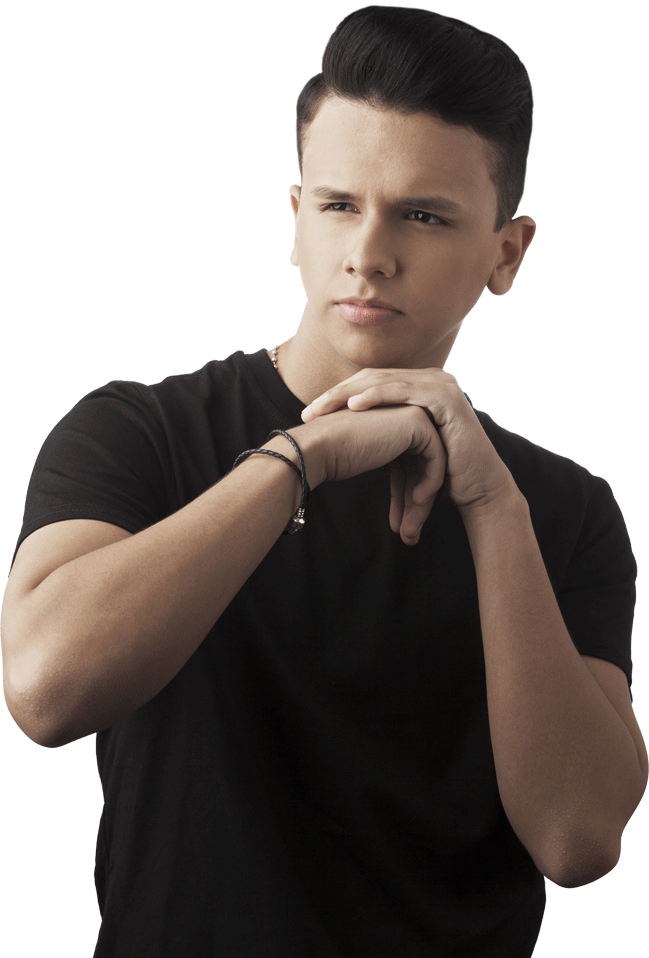
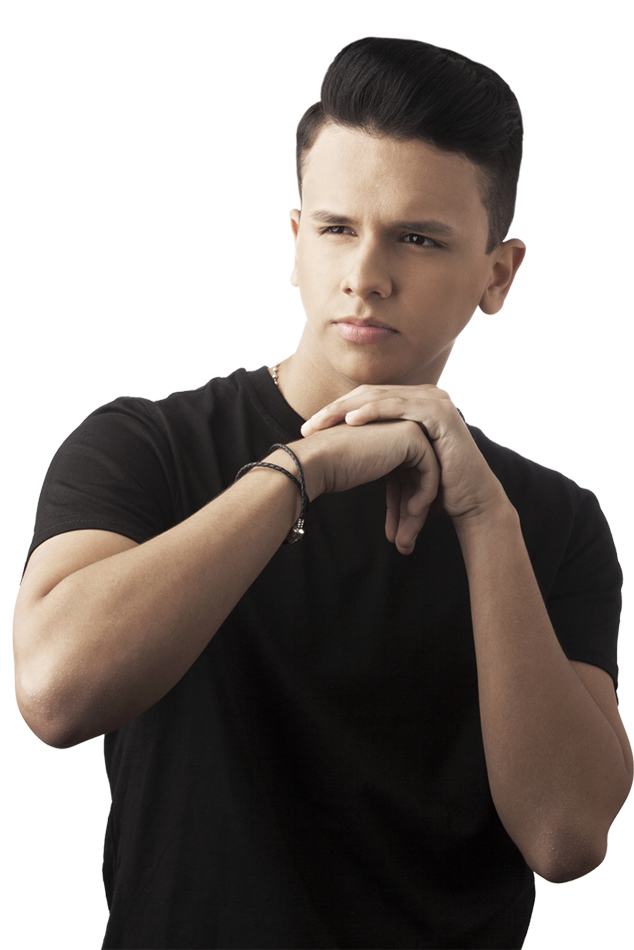
Cambio de imagenes

diff --git a/client/app/premios/premios.html b/client/app/premios/premios.html
@@ -1,15 +1,12 @@
 <div class="row">
   <div class="col-sm-3 col-md-3 col-lg-3 hidden-xs">
-    <img src="" class="img-responsive" alt="Image">
+    <img src="../assets/images/backgrounds/0.3.png" class="img-responsive" alt="Image">
   </div>
   <div class="col-sm-6 col-md-6 col-lg-6 text-center">
     <h1><span>PREMIO</span><br>MEET AND <br> GREET</h1>
     <h3>CONOCE A TUS ARTISTAS FAVORITOS</h3>
   </div>
   <div class="col-sm-3 col-md-3 col-lg-3 hidden-xs">
-    <img src="" class="img-responsive" alt="Image">
-  </div>
-  <div class="col-xs-12 hidden-sm hidden-md hidden-lg">
-    <img src="" class="img-responsive img-center" alt="Image">
+    <img src="../assets/images/backgrounds/0.3.1.png" class="img-responsive" alt="Image">
   </div>
 </div>

diff --git a/client/app/bases/bases.html b/client/app/bases/bases.html
@@ -2,7 +2,7 @@
   <div class="container">
     <div class="row">
       <div class="col-sm-6 col-md-6 col-lg-6">
-        <img src="../assets/images/backgrounds/01.png" class="img-responsive" alt="Image">
+        <img src="../assets/images/backgrounds/0.2.png" class="img-responsive" alt="Image">
       </div>
       <div class="col-sm-6 col-md-6 col-lg-6 vertical-center text-left">
         <article>
